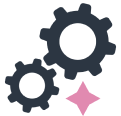
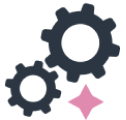
[ADD] change svg

diff --git a/src/Components/Services/services.jsx b/src/Components/Services/services.jsx
@@ -39,7 +39,7 @@ const Services = () => {
         </div>
 
         <div className="flex justify-center">
-          <img src={Gears} alt="Icône Gears" className="mt-10 h-20 w-20 button-design-formbounce animate-bounce-bounce" />
+          <img src={Gears} alt="Icône Gears" className="mt-10 h-20 button-design-formbounce animate-bounce-bounce" />
         </div>
         <div className="flex justify-center mt-10">
           <div className="w-96 sm:w-1/3 px-5">
